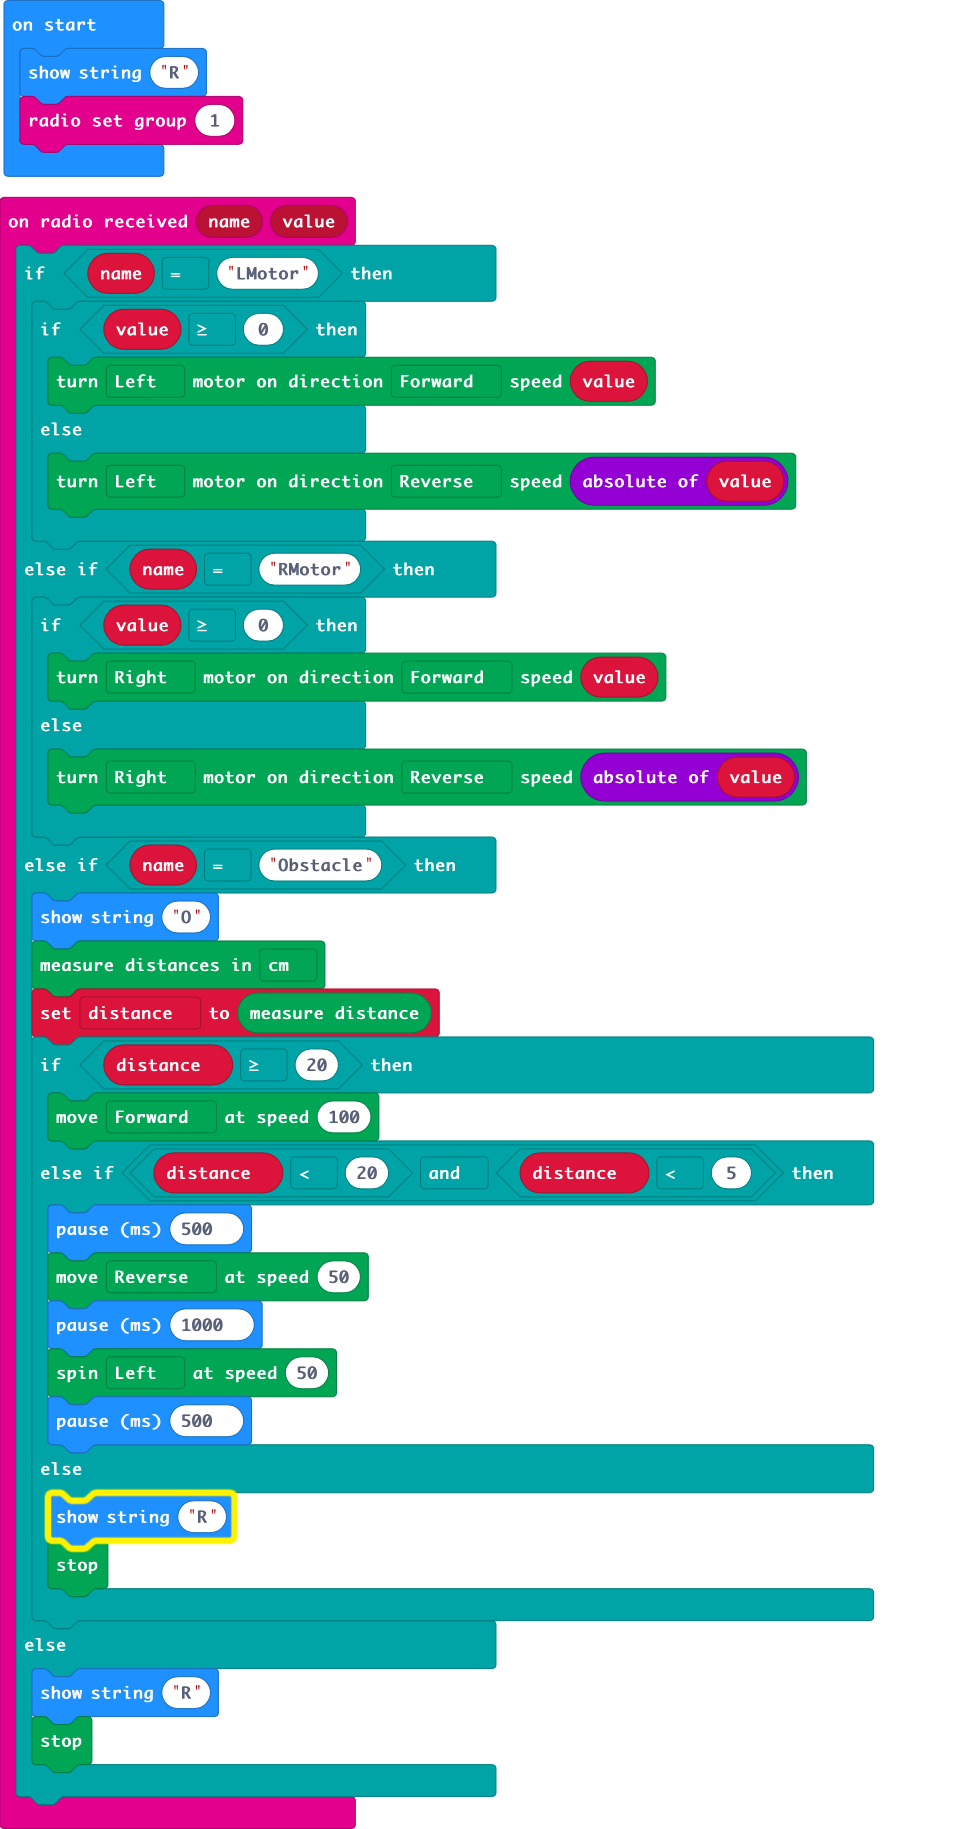
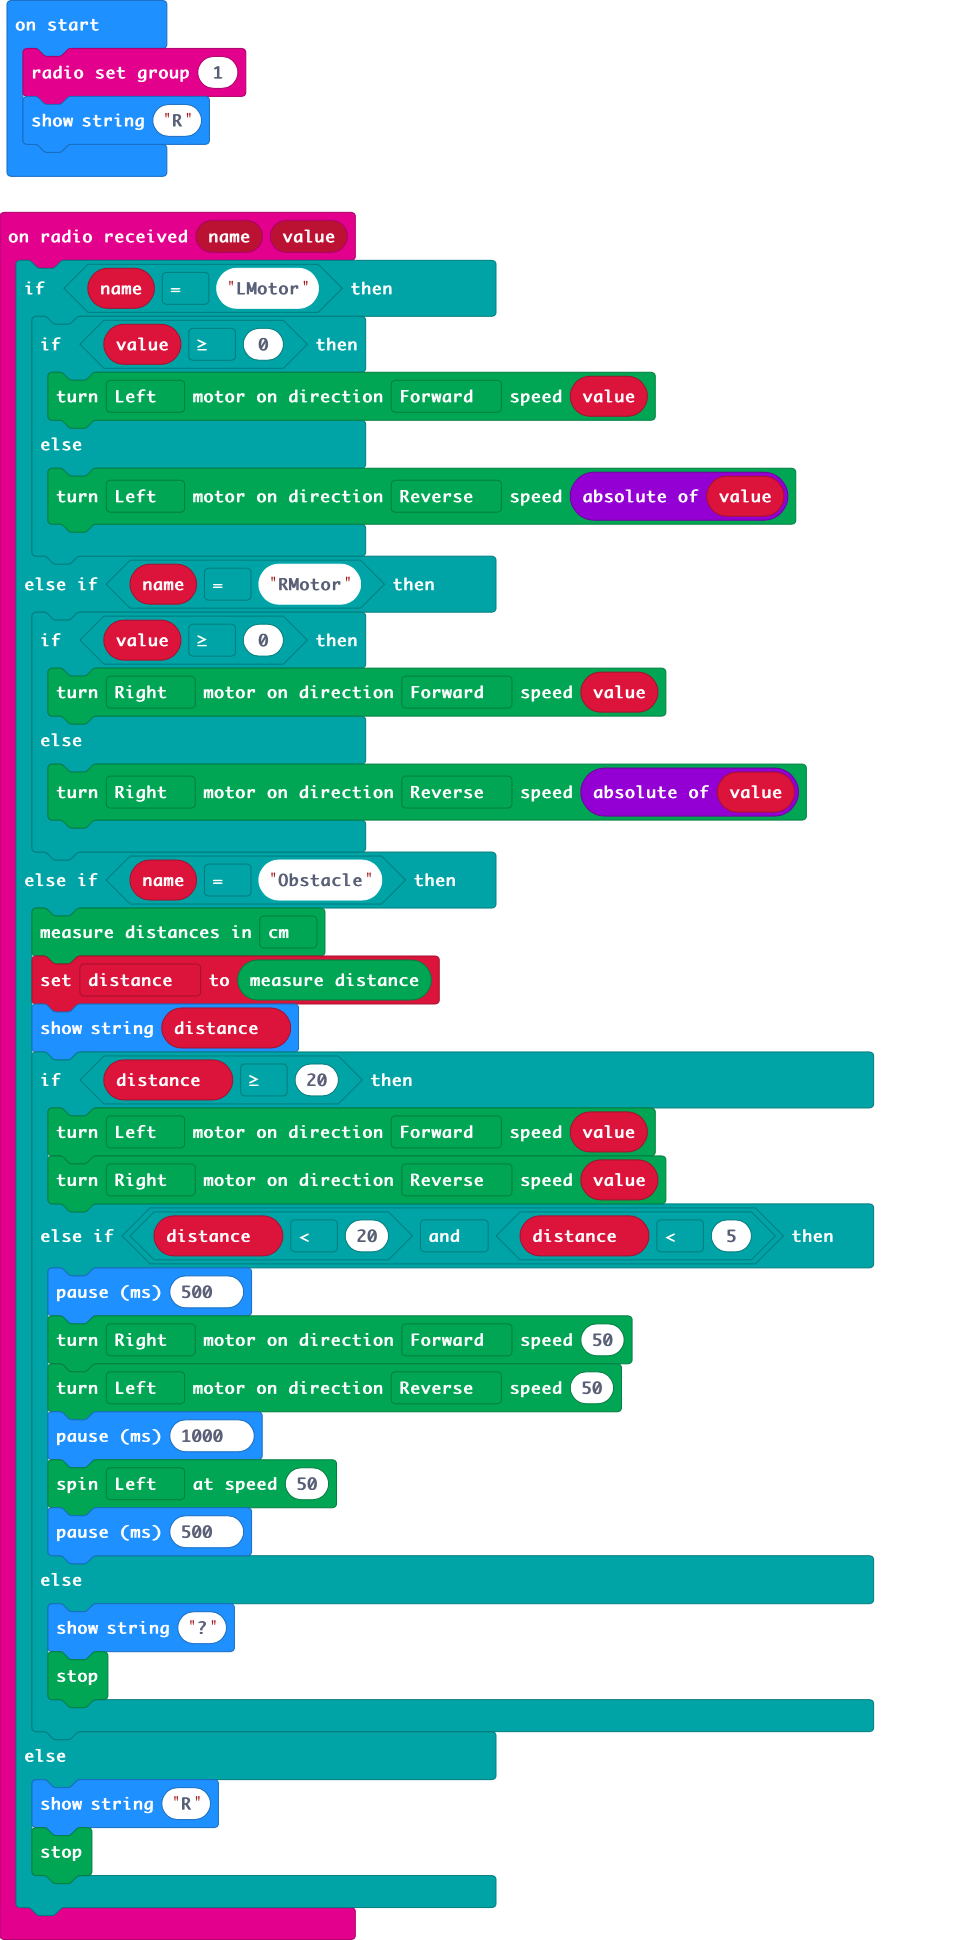
Update pxt.json, main.blocks, main.ts

Changed region(s): [[0.0, 0.0, 0.9202, 0.9973], [0.3681, 0.1247, 0.3988, 0.1558]]

diff --git a/main.ts b/main.ts
@@ -12,7 +12,6 @@ radio.onReceivedValue(function (name, value) {
             Kitronik_Move_Motor.motorOn(Kitronik_Move_Motor.Motors.MotorRight, Kitronik_Move_Motor.MotorDirection.Reverse, Math.abs(value))
         }
     } else if (name == "Obstacle") {
-        basic.showString("O")
         Kitronik_Move_Motor.setUltrasonicUnits(Kitronik_Move_Motor.Units.Centimeters)
         distance = Kitronik_Move_Motor.measure()
         basic.showString("" + (distance))
@@ -27,7 +26,7 @@ radio.onReceivedValue(function (name, value) {
             Kitronik_Move_Motor.spin(Kitronik_Move_Motor.SpinDirections.Left, 50)
             basic.pause(500)
         } else {
-            basic.showString("R")
+            basic.showString("?")
             Kitronik_Move_Motor.stop()
         }
     } else {
